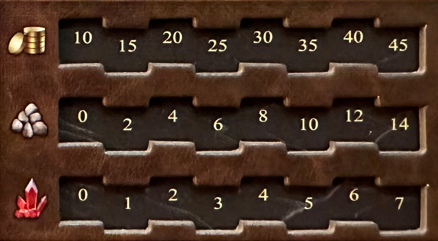
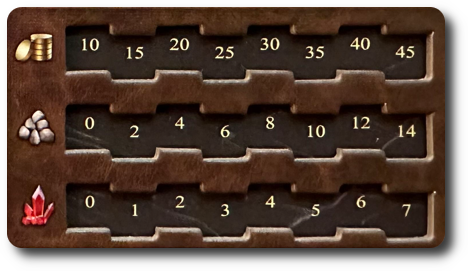
Prettify resource production tracker

diff --git a/sections/resources.tex b/sections/resources.tex
@@ -29,7 +29,7 @@ There's no limit to the amount of Resources you can have.
 
 \columnbreak
 
-\shadowimage[width=\linewidth]{\tables/resource_board.png}
+\includegraphics[width=\linewidth]{\tables/resource_board.png}
 \smallskip
 \centering\footnotesize\textcolor{darkcandyapplered}{\textbf{\textit{Resource Production Tracker}}}
 \bigskip
